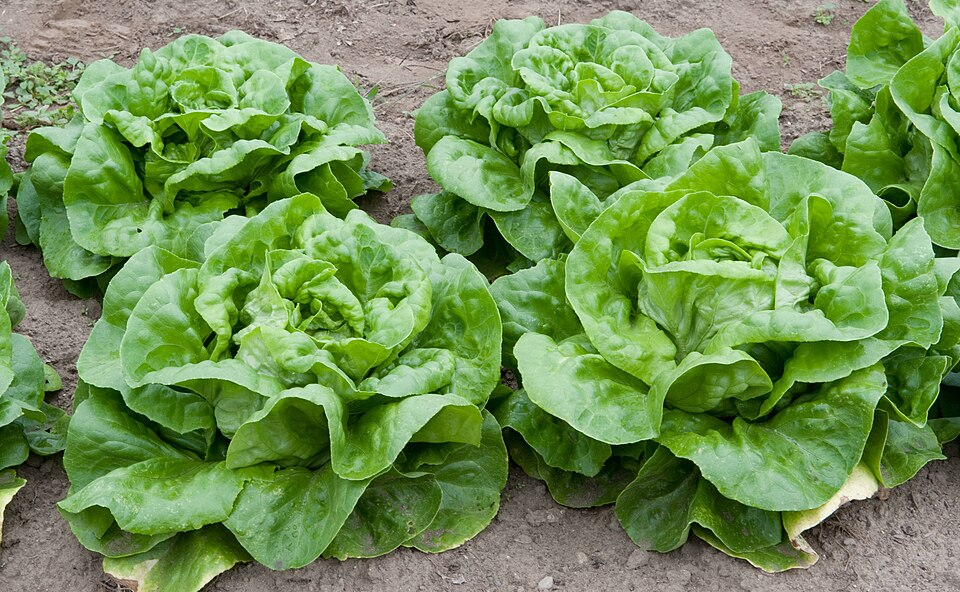
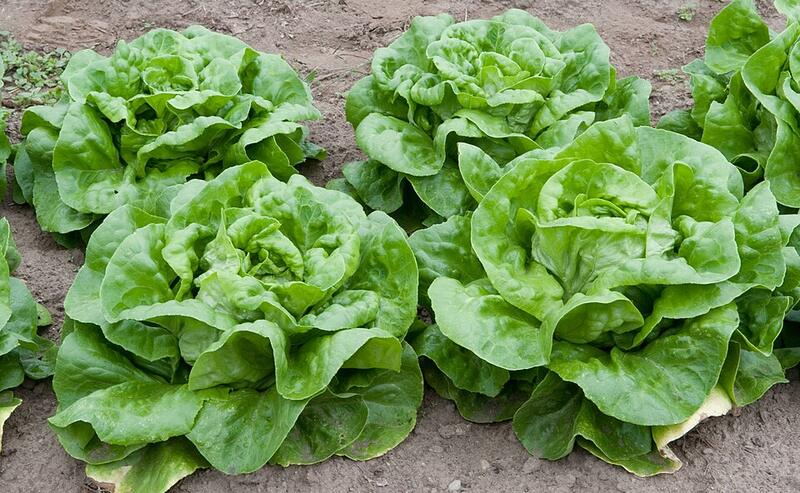
Laitue pommée : photo allégée (800 px, 101 Ko), plus en attente de photo
Claude-Session: https://claude.ai/code/session_01UD7EMe3nyz5WsGWAN5jAYH

Changed region(s): [[0.9062, 0.6694, 0.9375, 0.6998], [0.0, 0.213, 0.0312, 0.2434], [0.0, 0.1521, 0.0312, 0.1826]]

diff --git a/tests/stock-photos.test.ts b/tests/stock-photos.test.ts
@@ -9,7 +9,7 @@ const credits = JSON.parse(fs.readFileSync(path.join(ROOT, "assets/plants/credit
 const index = fs.readFileSync(path.join(ROOT, "components/plant-stock-photos.ts"), "utf8");
 
 /** Plantes qui attendent leur photo d'exemple (l'app montre leur emoji en attendant). Vide : toutes en ont une. */
-const AWAITING_PHOTO = new Set<string>(["head-lettuce"]);
+const AWAITING_PHOTO = new Set<string>([]);
 
 describe("photos d'exemple des plantes", () => {
   it("n'attendent leur photo que pour des plantes qui n'en ont vraiment pas encore", () => {

diff --git a/CLAUDE.md b/CLAUDE.md
@@ -85,7 +85,7 @@ visuelle, retour immédiat.
 pour planter (PR https://github.com/NLB44850/Balco/pull/28, 06/10), puis le rempotage (R1 à R3), les 11 pas-à-pas
 (`docs/pas-a-pas.md`), Nora qui récupère sa réponse perdue et Saisons corrigé (PR https://github.com/NLB44850/Balco/pull/29,
 07/10). Livré le 07/10, à valider sur son téléphone : accords des textes, après-récolte et laitue pommée (point 5).
-Ensuite : photo de la laitue, fin de saison des annuelles, l'APK (point 1). Récap pour claude.ai :
+Ensuite : fin de saison des annuelles (quand il le dira), l'APK (point 1). Récap pour claude.ai :
 `docs/recap-pour-claude.md` + captures `docs/captures/` (refaites par `bash scripts/captures.sh`, spec
 `e2e/captures.spec.ts` sautée sans `CAPTURES=1`).**
 
@@ -163,8 +163,9 @@ et les 10 étapes du test utilisateur du 04/10 (détail dans « Historique des l
    - Mois de semis revus le 08/10 avec 2 semenciers au moins (sa règle) : navet + juillet, chou-rave mars–juin,
      oignons botte mars et août–sept., pak choï juil.–sept. (récolte sept.–nov.) ; détail dans `docs/sources-calendrier.md`.
    - Laitue pommée ajoutée (`head-lettuce`, 101 plantes, calendrier vérifié dans `docs/sources-calendrier.md`, récoltée
-     en une fois, 14 j) ; **sa photo reste à télécharger dans le Codespace** (`AWAITING_PHOTO` de
-     `tests/stock-photos.test.ts`, emoji en attendant).
+     en une fois, 14 j), photo ajoutée le 08/10 (Wikimedia, CC BY 2.0). Pour une prochaine plante : candidates dans le
+     Codespace, choix dans `choix.json`, puis `bash scripts/photos/ajouter-photo.sh <id>` (télécharge, allège si
+     `convert` existe, refait l'index, pousse ; sinon alléger dans la session : `convert … -resize '800x800>' -strip -quality 74`).
    - Étape suivante, après sa validation : fin de saison des annuelles (« Ta saison de basilic est finie ? »).
 6. **Mémoire de Nora sur plusieurs jours** : il doit encore faire le test sur 2-3 jours (retour à recueillir).
 7. **Tester sans Codespace** (proposé, pas encore demandé) : version web hébergée qui se met à jour seule et APK
